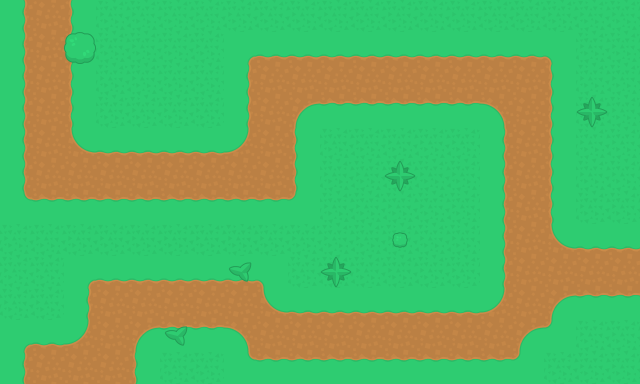
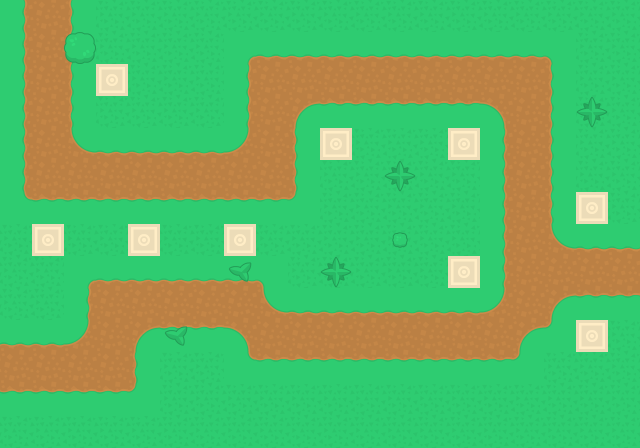
Added map for level 2

diff --git a/src/gameplay.js b/src/gameplay.js
@@ -3,12 +3,12 @@ class Gameplay extends Phaser.Scene {
     super("gameplay");
     this.gameStarted = false;
     this.nearBy = 4;
-    this.levelLocked = [false, true, true];
+    this.levelLocked = [false, false, false];
     this.maxLevel = 3;
     // Resources
     this.resource = 2000;
     this.resourceTo = 2000;
-    this.resourceMap = [200, 250]; // 20 pts for level 1 tanks, 25 for level 2
+    this.resourceMap = [200, 250]; // 200 pts for level 1 tanks, 250 for level 2 tanks
 
     // Health
     this.health = 200;
@@ -21,8 +21,8 @@ class Gameplay extends Phaser.Scene {
 
     /** Tanks configs */
     this.listTanks = [];
-    this.maxTank = [10, 1, 1]; //[4, 8, 12];
-    this.maxWave = [1, 1, 1]; //[2, 5, 8];
+    this.maxTank = [1, 2, 1]; //[4, 8, 12];
+    this.maxWave = [1, 2, 1]; //[2, 5, 8];
     this.currentWave = 1;
     this.tankDestroyed = 0;
     this.tankspawned = 0;
@@ -43,12 +43,13 @@ class Gameplay extends Phaser.Scene {
 
     // Level 2
     this.pathsX[1] = [];
-    this.pathsX[1][1] = [1, 1, 8, 8, 16, 16, 19];
-    this.pathsX[1][2] = [1, 3, 3, 7, 8, 15, 16, 17, 19];
-
     this.pathsY[1] = [];
-    this.pathsY[1][1] = [0, 5, 5, 2, 2, 8, 8];
-    this.pathsY[1][2] = [11, 11, 9, 9, 10, 10, 9, 8, 8];
+
+    this.pathsX[1][1] = [0, 6, 7, 7, 10, 11, 11, 19];
+    this.pathsY[1][1] = [3, 3, 4, 5, 5, 6, 7, 7];
+
+    this.pathsX[1][2] = [0, 7, 8, 10, 11, 11, 19];
+    this.pathsY[1][2] = [10, 10, 9, 9, 8, 7, 7];
 
     // Level 3
     this.pathsX[2] = [];
@@ -61,7 +62,7 @@ class Gameplay extends Phaser.Scene {
 
     // Tank objective per level
     this.tankObjectiveX = [19, 19, 19];
-    this.tankObjectiveY = [8, 8, 8];
+    this.tankObjectiveY = [8, 7, 8];
     this.tankSpawnDelay = 1500;
 
     /**  Tower configs */
@@ -75,8 +76,8 @@ class Gameplay extends Phaser.Scene {
     this.defPositionsX[0] = [1, 3, 4, 7, 10, 14, 14, 18, 18];
     this.defPositionsY[0] = [7, 2, 7, 7, 4, 4, 8, 6, 10];
     // Level 2
-    this.defPositionsX[1] = [1, 3, 4, 7, 10, 14, 14, 18, 18];
-    this.defPositionsY[1] = [7, 2, 7, 7, 4, 4, 8, 6, 10];
+    this.defPositionsX[1] = [1, 1, 5, 5, 12, 12, 17, 17];
+    this.defPositionsY[1] = [5, 8, 5, 8, 5, 9, 5, 9];
     // Level 3
     this.defPositionsX[2] = [1, 3, 4, 7, 10, 14, 14, 18, 18];
     this.defPositionsY[2] = [7, 2, 7, 7, 4, 4, 8, 6, 10];
@@ -327,7 +328,7 @@ class Gameplay extends Phaser.Scene {
   }
 
   ShowDefPosition(pX, pY) {
-    var pos = this.add.sprite(pX, pY, "tilesheet", 110);
+    var pos = this.add.sprite(pX, pY, "tilesheet", 180);
     pos.occupied = false;
     pos.tower = null;
     this.listDefPositions.push(pos);
@@ -438,11 +439,11 @@ class Gameplay extends Phaser.Scene {
           config.tileSize / 2,
         1
       );
-      if (this.listTanks.length <= 1)
-        console.log("Wave ", this.currentWave, " started");
+      // if (this.listTanks.length <= 1)
+      // console.log("Wave ", this.currentWave, " started");
     } else {
       clearInterval(this.spawnTimerID);
-      console.log("Wave ", this.currentWave, " ended");
+      // console.log("Wave ", this.currentWave, " ended");
     }
   }
 
@@ -553,20 +554,20 @@ class Gameplay extends Phaser.Scene {
         // Remove destroyed tanks from the tank list
         this.listTanks.splice(i, 1);
         this.tankDestroyed++;
-        console.log(
-          "Destroyed ",
-          this.tankDestroyed,
-          " Max tanks ",
-          this.maxTank[this.currentLevel - 1]
-        );
+        // console.log(
+        //   "Destroyed ",
+        //   this.tankDestroyed,
+        //   " Max tanks ",
+        //   this.maxTank[this.currentLevel - 1]
+        // );
 
         // Check if the current wave have ended
         if (this.tankDestroyed === this.maxTank[this.currentLevel - 1]) {
-          console.log("Checking possibility to start next wave");
+          // console.log("Checking possibility to start next wave");
           // Start the next wave
           if (this.currentWave < this.maxWave[this.currentLevel - 1]) {
             this.currentWave++;
-            console.log("Preparing to start wave ", this.currentWave);
+            // console.log("Preparing to start wave ", this.currentWave);
             setTimeout(() => {
               this.tankspawned = 0;
               this.tankDestroyed = 0;
@@ -576,7 +577,7 @@ class Gameplay extends Phaser.Scene {
               );
             }, 1000);
           } else {
-            console.log("All waves are done");
+            // console.log("All waves are done");
             if (this.healthTo > 0) {
               setTimeout(() => {
                 this.levelVictory = true;
@@ -592,11 +593,15 @@ class Gameplay extends Phaser.Scene {
   /** Functions to start level */
 
   startLevel(pLevel) {
+    this.currentLevel = pLevel;
     this.clearLevelSelection();
     this.resource = 2000;
     this.resourceTo = 2000;
     this.health = 200;
     this.healthTo = 200;
+
+    this.resourceText.text = "Ressources : " + Math.floor(this.resource);
+    this.healthText.text = "Santé : " + Math.floor(this.health);
 
     this.levelFailedText.visible = false;
     this.levelVictoryText.visible = false;
@@ -605,12 +610,17 @@ class Gameplay extends Phaser.Scene {
     this.levelVictory = false;
 
     // Reset tanks
+    this.listTanks.forEach((tank) => tank.delete(false));
+    this.listDefPositions.forEach((elt) => elt.destroy());
+    this.listTowers.forEach((elt) => elt.delete(false));
+    this.listAvailableTowerTypes.forEach((elt) => elt.destroy());
     this.listTanks = [];
     this.tankspawned = 0;
     this.tankDestroyed = 0;
     this.currentWave = 1;
 
     // Reset towers
+
     this.listDefPositions = [];
     this.listTowers = [];
     this.listAvailableTowerTypes = [];
@@ -619,14 +629,8 @@ class Gameplay extends Phaser.Scene {
     this.gameStarted = true;
 
     // Reset map
-    console.log(this.map);
-    if (this.map === undefined) {
-      this.map = this.add.image(0, 0, "level" + pLevel);
-      this.map.setOrigin(0, 0);
-    } else {
-      this.map.setTexture("level" + pLevel);
-    }
-    console.log(this.map);
+    this.map.setTexture("level" + pLevel);
+    this.map.setOrigin(0, 0);
 
     this.spawnTimerID = setInterval(() => {
       this.startNextWave();
@@ -648,7 +652,9 @@ class Gameplay extends Phaser.Scene {
   clearLevelSelection() {
     this.children.getAll().forEach((child) => {
       child.visible = true;
+      child.alpha = 1;
     });
+
     this.titleSelection.visible = false;
     this.level1Btn.visible = false;
     this.level1Btn.text.visible = false;
@@ -1029,8 +1035,6 @@ class Gameplay extends Phaser.Scene {
         if (this.currentLevel <= this.maxLevel) {
           this.levelLocked[this.currentLevel - 1] = false;
         }
-
-        console.log(this.levelLocked[1], this.levelLocked[2]);
       }
       this.showLevelSelection();
       this.children.getAll().forEach((child) => {
@@ -1078,6 +1082,8 @@ class Gameplay extends Phaser.Scene {
     this.input.on(Phaser.Input.Events.POINTER_MOVE, this.onPointerMove, this);
     this.input.on(Phaser.Input.Events.POINTER_UP, this.onPointerUp, this);
 
+    this.map = this.add.sprite(0, 0, "level1");
+
     // Resources
     this.resourceText = this.add.text(
       140,
@@ -1087,13 +1093,11 @@ class Gameplay extends Phaser.Scene {
         fontSize: 18,
       }
     );
-    this.resourceText.depth = 2;
 
     // Health
     this.healthText = this.add.text(400, 10, "Santé : " + this.health, {
       fontSize: 18,
     });
-    this.healthText.depth = 2;
 
     // Level status
     this.levelFailedText = this.add.text(0, 100, "Niveau Perdu", {
@@ -1117,7 +1121,8 @@ class Gameplay extends Phaser.Scene {
     this.input.on("pointerover", this.onPointerOver, this);
     this.input.on("pointerout", this.onPointerOut, this);
 
-    this.showLevelSelection();
+    // this.showLevelSelection();
+    this.startLevel(2);
   }
 
   update(time) {
@@ -1166,7 +1171,7 @@ class Gameplay extends Phaser.Scene {
       }
     }
     if (this.levelFailed) {
-      console.log("Game Over");
+      // console.log("Game Over");
     }
   }
 }

diff --git a/src/tower.js b/src/tower.js
@@ -32,15 +32,17 @@ class Tower extends Phaser.GameObjects.Sprite {
     this.circle = scene.add.circle(this.x, this.y, this.range, 0xffff00, 0.2);
   }
 
-  delete() {
-    this.scene.costHealth(this.scene.healthCostOnTowerDestroyed);
-    switch (this.type) {
-      case 0:
-        this.play("explosion3");
-        break;
-      case 1:
-        this.play("explosion1");
-        break;
+  delete(pAnimate) {
+    if (pAnimate) {
+      this.scene.costHealth(this.scene.healthCostOnTowerDestroyed);
+      switch (this.type) {
+        case 0:
+          this.play("explosion3");
+          break;
+        case 1:
+          this.play("explosion1");
+          break;
+      }
     }
     this.text.destroy();
     this.base.destroy();

diff --git a/src/home.js b/src/home.js
@@ -77,7 +77,7 @@ class Home extends Phaser.Scene {
   }
   create() {
     startTime = getTime();
-    // this.scene.start("gameplay");
+    this.scene.start("gameplay");
     this.add.text(0, 20, "Gamecodeur Gamejam #37", {
       fontSize: 35,
       fixedWidth: config.width,
@@ -88,7 +88,7 @@ class Home extends Phaser.Scene {
     this.creditsBtn = addButton(
       this,
       7 * 32,
-      9 * 32 + 10,
+      9 * 32,
       "Crédits",
       25,
       "button02"

diff --git a/src/tank.js b/src/tank.js
@@ -50,12 +50,12 @@ class Tank extends Phaser.GameObjects.Sprite {
     this.turret.vy = 0;
   }
 
-  delete() {
+  delete(pAnimate) {
     this.turret.destroy();
     this.text.destroy();
     this.circle.destroy();
     this.isDestroyed = true;
-    if (this.reachedObjective === false) {
+    if (this.reachedObjective === false && pAnimate === true) {
       this.scene.addToResources(this.scene.resourceMap[this.type]);
       switch (this.type) {
         case 0:

diff --git a/Readme.md b/Readme.md
@@ -41,7 +41,7 @@ E. Gestion du score: 10 Pomodoros + 10"
 - [x] Animations
 - [x] Condition de victoire
 
-F. Final : 5 Pomodoros
+F. Final : 7 Pomodoros
 
 - [x] Étendre à plusieurs niveaux
 - [] Polish
